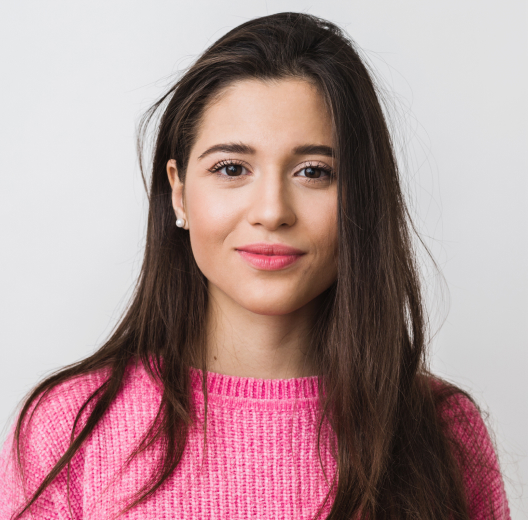
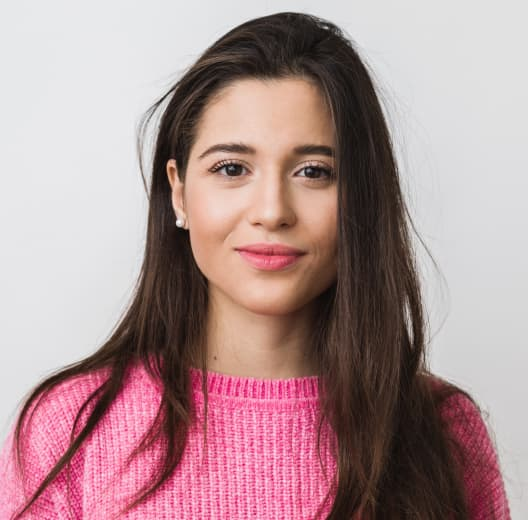
add pictures 2x

diff --git a/index.html b/index.html
@@ -211,7 +211,11 @@
             <li class="team">
               <img
                 class="team-img"
-                src="./images/MarkGuerrero2.jpg"
+                src="./images/MarkGuerrero1.png"
+                srcset="
+                  ./images/MarkGuerrero1.png 1x,
+                  ./images/MarkGuerrero2.jpg 2x
+                "
                 alt="Mark Guerrero"
                 min-width="264"
                 height="260"
@@ -254,7 +258,8 @@
             <li class="team">
               <img
                 class="team-img"
-                src="./images/TomFord2.jpg"
+                src="./images/TomFord1.png"
+                srcset="./images/TomFord1.png 1x, ./images/TomFord2.jpg 2x"
                 alt="Tom Ford"
                 min-width="264"
                 height="260"
@@ -297,7 +302,11 @@
             <li class="team">
               <img
                 class="team-img"
-                src="./images/CamilaGarcia2.jpg"
+                src="./images/CamilaGarcia1.png"
+                srcset="
+                  ./images/CamilaGarcia1.png 1x,
+                  ./images/CamilaGarcia2.jpg 2x
+                "
                 alt="Camila Garcia"
                 min-width="264"
                 height="260"
@@ -340,7 +349,11 @@
             <li class="team">
               <img
                 class="team-img"
-                src="./images/DanielWilson2.jpg"
+                src="./images/DanielWilson1.png"
+                srcset="
+                  ./images/DanielWilson1.png 1x,
+                  ./images/DanielWilson2.jpg 2x
+                "
                 alt="Daniel Wilson"
                 min-width="264"
                 height="260"
